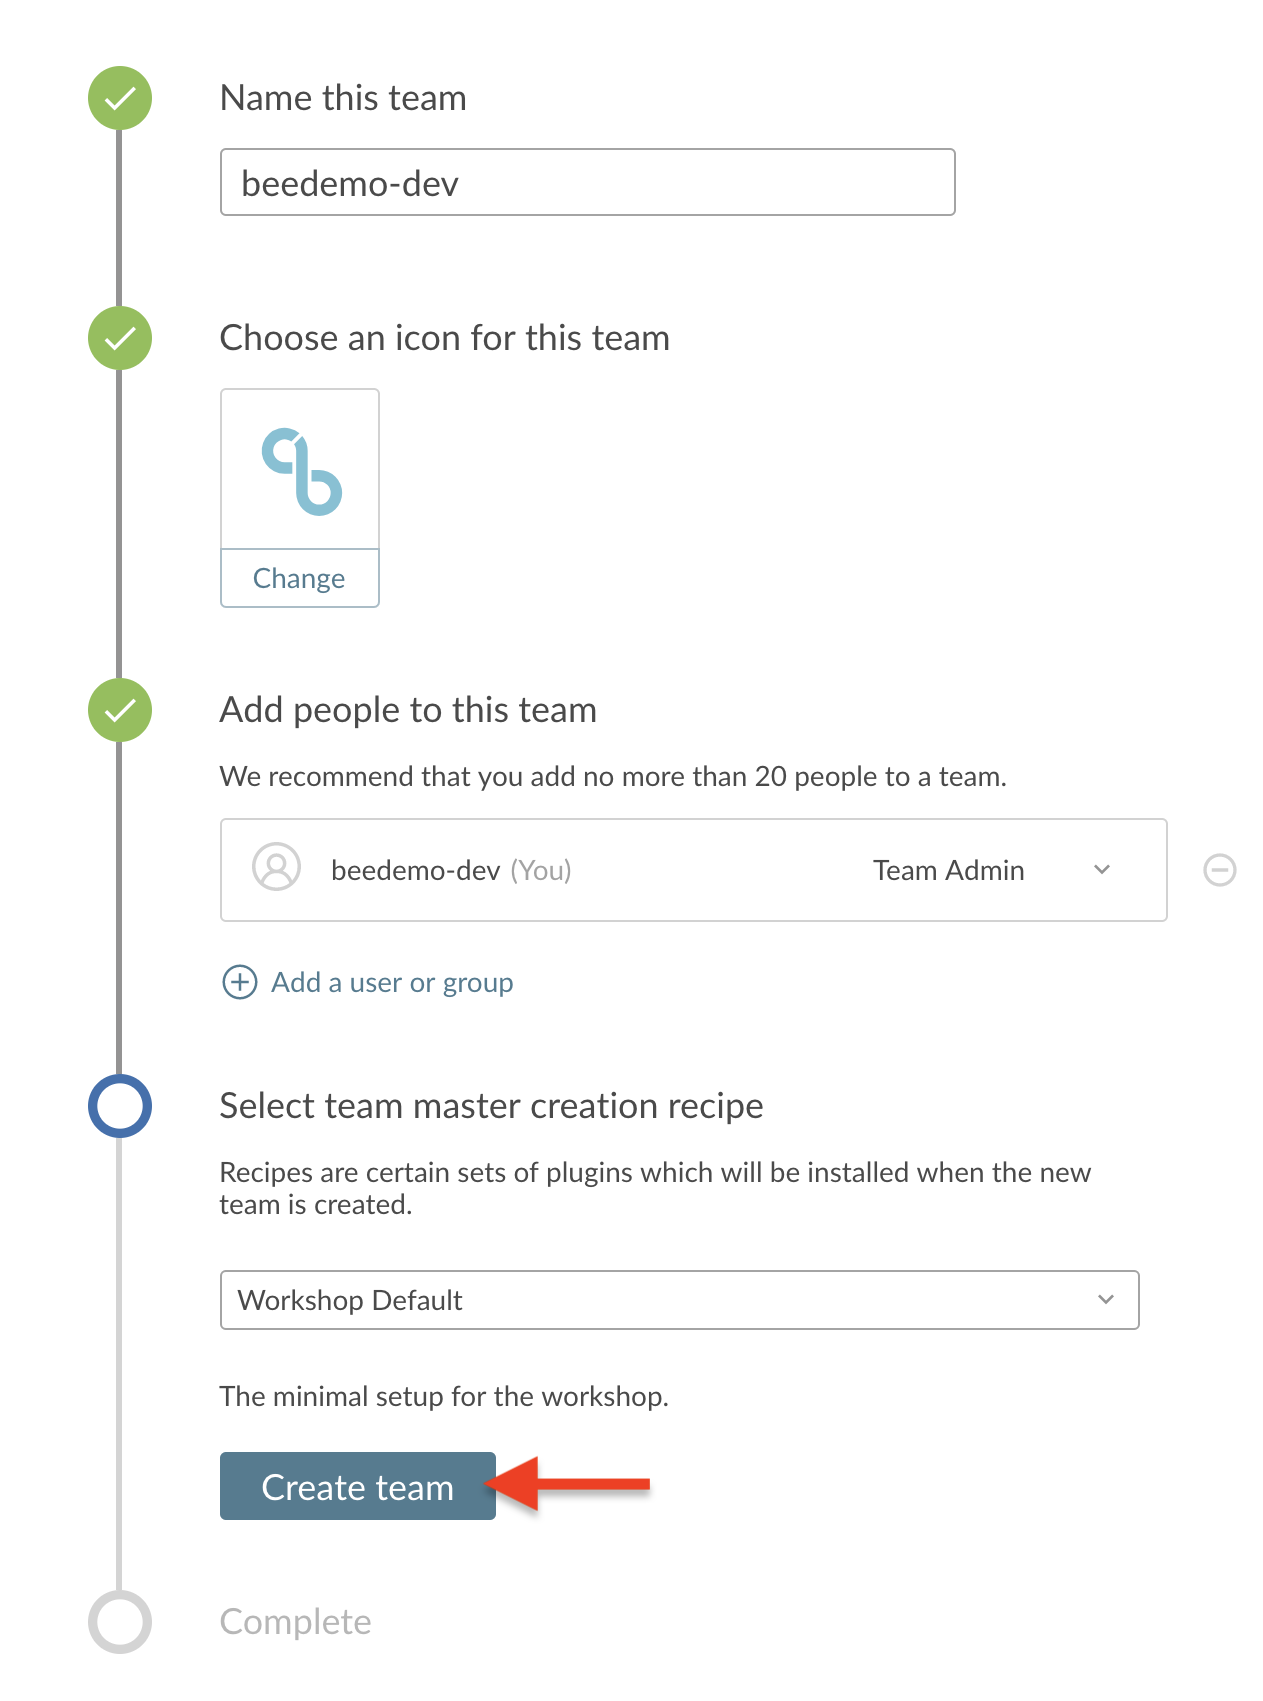
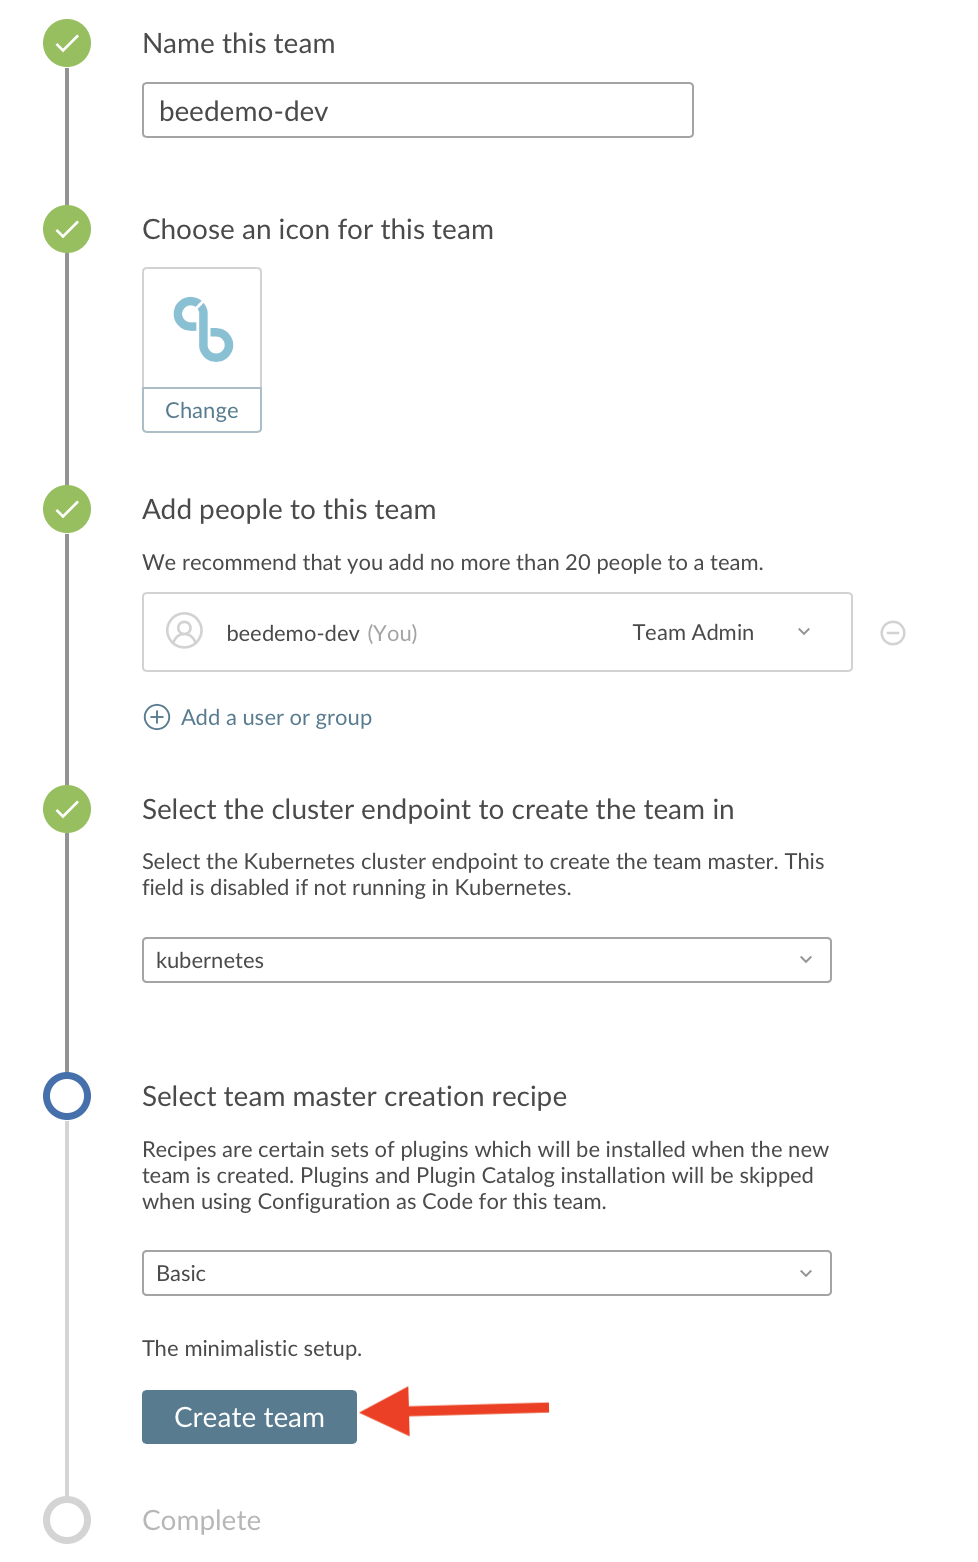
minor setup updates, updated screenshots

diff --git a/labs/core-workshop-setup/workshop-setup.md b/labs/core-workshop-setup/workshop-setup.md
@@ -20,9 +20,10 @@ Next, everyone will get their own Jenkins masters referred to as a [Team Master]
 3. **Name this team** - enter a name for your team - **IMPORTANT: to ensure uniqueness, use your GitHub username** and then click **Next**.<p><img src="images/setup-name-this-team.png" width=450/>
 4. **Choose an icon for this team** to help uniquely identify your team - select an icon and color for your team and then click **Next**.
 5. **Add people to this team** - your user will show up as a **Team Admin** and we won't be adding any additional users right now, but feel free to look around and then click **Next**.
-6. **Select team master creation recipe** - click on the drop-down to see the options, but select the top option: **Workshop Default** recipe.<p><img src="images/setup-create-team-recipe-2.png" width=450/>
-7. Finally, click the **Create team** button. <p><img src="images/setup-create-team.png" width=450/>
-8. While your master is being  created (**it takes anywhere from 2-3 minutes to provision your Team Master**), move onto the next section.
+6. **Select the cluster endpoint to create the team in** - just stick with the default value `kubernetes` and click **Next**.
+7. **Select team master creation recipe** - click on the drop-down to see the options, but just stick with the **Basic** recipe.
+8. Finally, click the **Create team** button. <p><img src="images/setup-create-team.png" width=450/>
+9. While your master is being  created (**it takes anywhere from 2-3 minutes to provision your Team Master**), move onto the next section.
 
 ## Create a GitHub.com Account
 Setup a GitHub.com user account that will be used later in this workshop. If you have an existing GitHub.com account you will be able to use it if you are comfortable using that account to create a GitHub Organization and a GitHub Personal Access Token for use later in the workshop.
